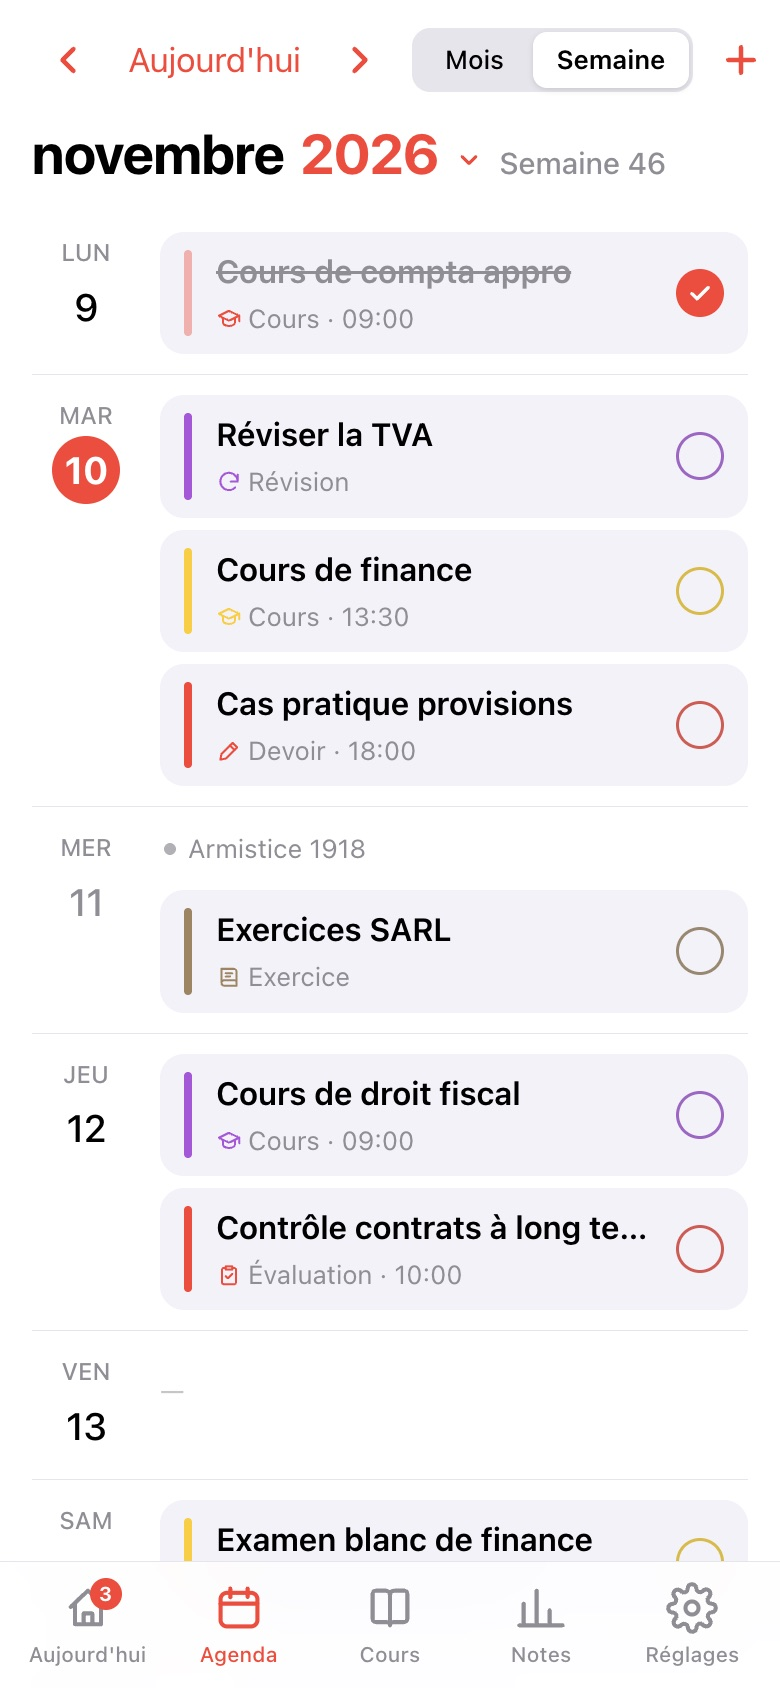
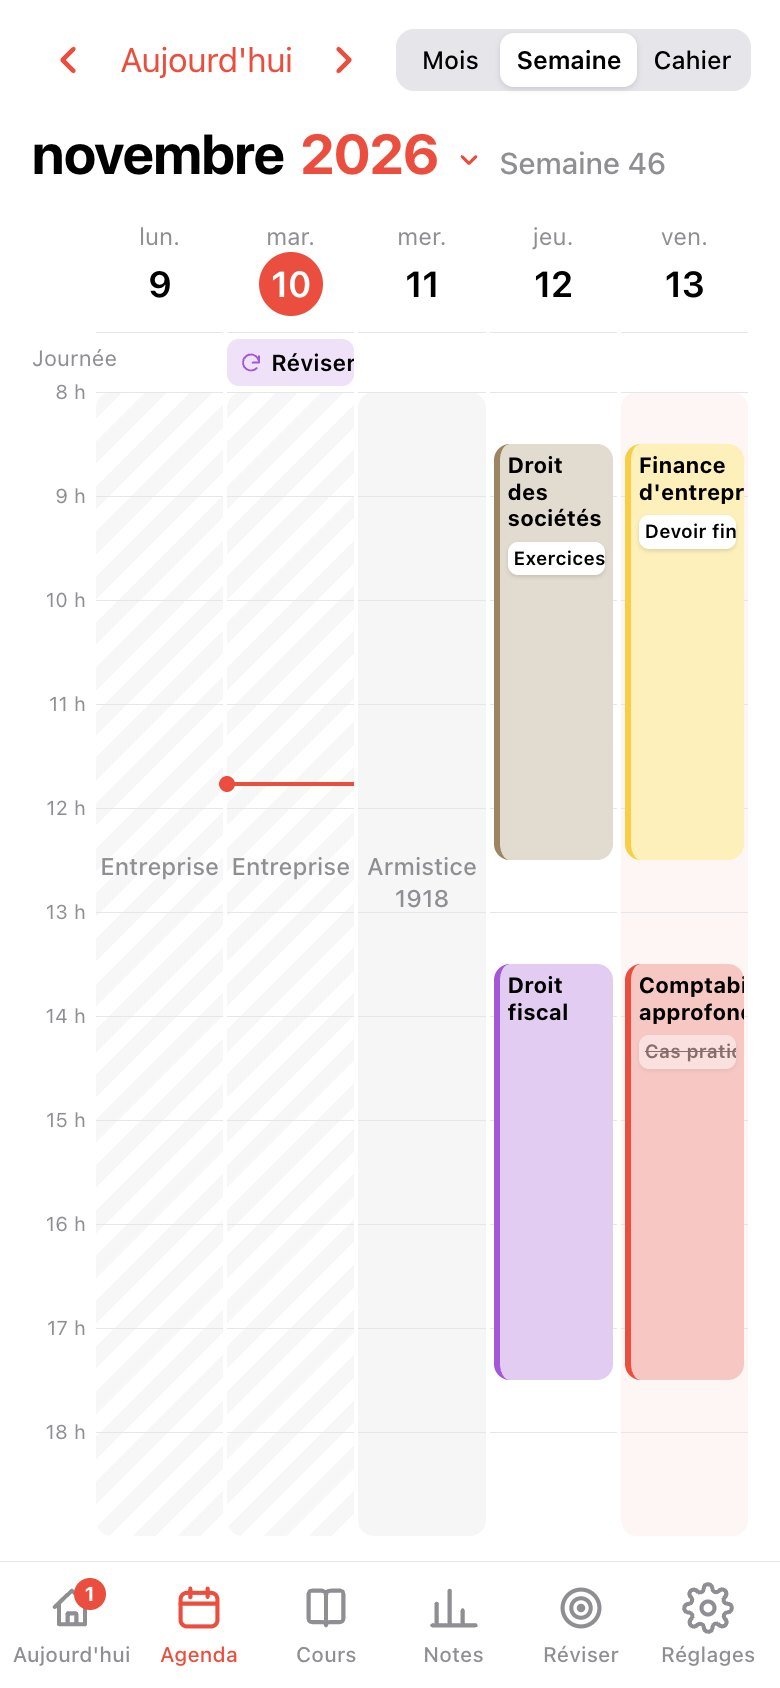
Page de présentation : emploi du temps, devoirs, sujets en photo, Réviser

diff --git a/public/presentation.html b/public/presentation.html
@@ -232,7 +232,7 @@ footer a:hover { color: var(--text); }
     <div class="stage reveal d2">
       <div class="window laptop">
         <div class="bar"><i></i><i></i><i></i></div>
-        <img src="/presentation/desktop-week-dark.jpg" alt="Agenda DCG sur Mac : la semaine avec cours, devoirs, évaluation et examen blanc" width="2000" height="1250">
+        <img src="/presentation/desktop-week-dark.jpg" alt="Agenda DCG sur Mac : l'emploi du temps de la semaine, avec les devoirs rangés dans leurs cours" width="2000" height="1250">
       </div>
       <div class="phone">
         <div class="screen"><div class="island"></div><img src="/presentation/phone-today.jpg" alt="Agenda DCG sur iPhone : l'écran Aujourd'hui" width="780" height="1688"></div>
@@ -242,7 +242,7 @@ footer a:hover { color: var(--text); }
 
   <div class="wrap">
     <div class="stats reveal">
-      <div class="stat"><b>5</b><span>onglets, rien de plus</span></div>
+      <div class="stat"><b>6</b><span>onglets, rien de plus</span></div>
       <div class="stat"><b>46</b><span>PDF de cours déjà en ligne</span></div>
       <div class="stat"><b>4</b><span>plateformes : iPhone, Mac, Windows, web</span></div>
       <div class="stat"><b>0 €</b><span>pour toujours</span></div>
@@ -275,16 +275,48 @@ footer a:hover { color: var(--text); }
 
       <div class="row flip">
         <div class="media reveal">
-          <div class="phone"><div class="screen adaptive"><div class="island"></div><img class="theme-light-only" src="/presentation/phone-week.jpg" alt="Vue semaine" loading="lazy" width="780" height="1688"><img class="theme-dark-only" src="/presentation/phone-week-dark.jpg" alt="Vue semaine en mode sombre" loading="lazy" width="780" height="1688"></div></div>
+          <div class="phone"><div class="screen adaptive"><div class="island"></div><img class="theme-light-only" src="/presentation/phone-week.jpg" alt="Emploi du temps de la semaine" loading="lazy" width="780" height="1688"><img class="theme-dark-only" src="/presentation/phone-week-dark.jpg" alt="Emploi du temps de la semaine en mode sombre" loading="lazy" width="780" height="1688"></div></div>
         </div>
         <div class="text reveal d1">
-          <div class="eyebrow">Agenda</div>
-          <h3>Du mois à la semaine, d'un geste.</h3>
-          <p>Pince l'écran pour passer de la vue mois à la vue semaine, glisse pour avancer, touche le nom du mois pour sauter directement où tu veux. Comme le Calendrier de ton iPhone.</p>
+          <div class="eyebrow">Emploi du temps</div>
+          <h3>Ta semaine, comme sur l'ENT.</h3>
+          <p>Les cours du jeudi et du vendredi sont déjà placés heure par heure, les jours en entreprise sont hachurés. Tu vois d'un coup d'œil quand tu as cours, et ce qu'il y a à rendre.</p>
           <ul class="bullets">
-            <li><svg viewBox="0 0 24 24" fill="none" stroke="currentColor" stroke-width="2.2" stroke-linecap="round" stroke-linejoin="round"><circle cx="12" cy="12" r="9"/><path d="M8 12.5l2.8 2.8L16 9.8"/></svg>Évaluation, examen blanc, devoir, exercice, cours, révision</li>
-            <li><svg viewBox="0 0 24 24" fill="none" stroke="currentColor" stroke-width="2.2" stroke-linecap="round" stroke-linejoin="round"><circle cx="12" cy="12" r="9"/><path d="M8 12.5l2.8 2.8L16 9.8"/></svg>Jours fériés indiqués automatiquement</li>
-            <li><svg viewBox="0 0 24 24" fill="none" stroke="currentColor" stroke-width="2.2" stroke-linecap="round" stroke-linejoin="round"><circle cx="12" cy="12" r="9"/><path d="M8 12.5l2.8 2.8L16 9.8"/></svg>Sur Mac, glisse à deux doigts sur le trackpad</li>
+            <li><svg viewBox="0 0 24 24" fill="none" stroke="currentColor" stroke-width="2.2" stroke-linecap="round" stroke-linejoin="round"><circle cx="12" cy="12" r="9"/><path d="M8 12.5l2.8 2.8L16 9.8"/></svg>Vue semaine en grille horaire, vue mois et cahier de texte</li>
+            <li><svg viewBox="0 0 24 24" fill="none" stroke="currentColor" stroke-width="2.2" stroke-linecap="round" stroke-linejoin="round"><circle cx="12" cy="12" r="9"/><path d="M8 12.5l2.8 2.8L16 9.8"/></svg>Jours fériés et jours en entreprise indiqués automatiquement</li>
+            <li><svg viewBox="0 0 24 24" fill="none" stroke="currentColor" stroke-width="2.2" stroke-linecap="round" stroke-linejoin="round"><circle cx="12" cy="12" r="9"/><path d="M8 12.5l2.8 2.8L16 9.8"/></svg>Glisse pour changer de semaine, à deux doigts sur le trackpad du Mac</li>
+          </ul>
+        </div>
+      </div>
+
+      <div class="row">
+        <div class="text reveal">
+          <div class="eyebrow">Devoirs</div>
+          <h3>Un devoir se range tout seul dans son cours.</h3>
+          <p>Choisis « Devoir » et la matière : la date se cale sur le prochain cours, l'heure aussi. Le devoir apparaît directement dans la case du cours, pas dans une case à côté.</p>
+          <ul class="bullets">
+            <li><svg viewBox="0 0 24 24" fill="none" stroke="currentColor" stroke-width="2.2" stroke-linecap="round" stroke-linejoin="round"><circle cx="12" cy="12" r="9"/><path d="M8 12.5l2.8 2.8L16 9.8"/></svg>Coche les chapitres concernés, pris dans la bibliothèque</li>
+            <li><svg viewBox="0 0 24 24" fill="none" stroke="currentColor" stroke-width="2.2" stroke-linecap="round" stroke-linejoin="round"><circle cx="12" cy="12" r="9"/><path d="M8 12.5l2.8 2.8L16 9.8"/></svg>« Prochains cours » : un bouton pour chaque date</li>
+            <li><svg viewBox="0 0 24 24" fill="none" stroke="currentColor" stroke-width="2.2" stroke-linecap="round" stroke-linejoin="round"><circle cx="12" cy="12" r="9"/><path d="M8 12.5l2.8 2.8L16 9.8"/></svg>Ajouté une fois, visible par toute la classe</li>
+          </ul>
+        </div>
+        <div class="media reveal d1">
+          <div class="phone"><div class="screen"><div class="island"></div><img src="/presentation/phone-new.jpg" alt="Nouveau devoir rangé dans le cours de finance" loading="lazy" width="780" height="1688"></div></div>
+        </div>
+      </div>
+
+      <div class="row flip">
+        <div class="media reveal">
+          <div class="phone"><div class="screen"><div class="island"></div><img src="/presentation/phone-homework.jpg" alt="Un devoir avec son sujet joint" loading="lazy" width="780" height="1688"></div></div>
+        </div>
+        <div class="text reveal d1">
+          <div class="eyebrow">Sujets</div>
+          <h3>Le sujet de l'exercice, en photo.</h3>
+          <p>Prends le sujet en photo depuis l'appli : les pages sont réunies en un PDF et rangées avec le devoir. Une fois la date passée, il reste disponible dans Réglages, rubrique Devoirs passés.</p>
+          <ul class="bullets">
+            <li><svg viewBox="0 0 24 24" fill="none" stroke="currentColor" stroke-width="2.2" stroke-linecap="round" stroke-linejoin="round"><circle cx="12" cy="12" r="9"/><path d="M8 12.5l2.8 2.8L16 9.8"/></svg>Photo, PNG, JPG ou PDF</li>
+            <li><svg viewBox="0 0 24 24" fill="none" stroke="currentColor" stroke-width="2.2" stroke-linecap="round" stroke-linejoin="round"><circle cx="12" cy="12" r="9"/><path d="M8 12.5l2.8 2.8L16 9.8"/></svg>Plusieurs pages réunies en un seul PDF</li>
+            <li><svg viewBox="0 0 24 24" fill="none" stroke="currentColor" stroke-width="2.2" stroke-linecap="round" stroke-linejoin="round"><circle cx="12" cy="12" r="9"/><path d="M8 12.5l2.8 2.8L16 9.8"/></svg>Séparé des cours : la bibliothèque reste propre</li>
           </ul>
         </div>
       </div>
@@ -296,7 +328,7 @@ footer a:hover { color: var(--text); }
           <p>Une bibliothèque par matière et par chapitre. Chaque chapitre a sa fiche de cours, son sujet type, le corrigé et le TOP EXO du prof. Une évaluation renvoie directement aux bons chapitres.</p>
           <ul class="bullets">
             <li><svg viewBox="0 0 24 24" fill="none" stroke="currentColor" stroke-width="2.2" stroke-linecap="round" stroke-linejoin="round"><circle cx="12" cy="12" r="9"/><path d="M8 12.5l2.8 2.8L16 9.8"/></svg>PDF compressés automatiquement, texte toujours sélectionnable</li>
-            <li><svg viewBox="0 0 24 24" fill="none" stroke="currentColor" stroke-width="2.2" stroke-linecap="round" stroke-linejoin="round"><circle cx="12" cy="12" r="9"/><path d="M8 12.5l2.8 2.8L16 9.8"/></svg>Une photo du tableau devient un PDF</li>
+            <li><svg viewBox="0 0 24 24" fill="none" stroke="currentColor" stroke-width="2.2" stroke-linecap="round" stroke-linejoin="round"><circle cx="12" cy="12" r="9"/><path d="M8 12.5l2.8 2.8L16 9.8"/></svg>Depuis un cours de l'emploi du temps, ouvre ses fiches</li>
             <li><svg viewBox="0 0 24 24" fill="none" stroke="currentColor" stroke-width="2.2" stroke-linecap="round" stroke-linejoin="round"><circle cx="12" cy="12" r="9"/><path d="M8 12.5l2.8 2.8L16 9.8"/></svg>Un seul étudiant ajoute, toute la classe en profite</li>
           </ul>
         </div>
@@ -323,12 +355,28 @@ footer a:hover { color: var(--text); }
 
       <div class="row">
         <div class="text reveal">
-          <div class="eyebrow">Rappels</div>
-          <h3>Plus jamais « c'était pour aujourd'hui ? »</h3>
-          <p>Tu choisis tes notifications : à chaque nouvelle évaluation, chaque matin, chaque dimanche pour ta semaine, et des rappels 1 jour, 2 jours ou 1 semaine avant.</p>
+          <div class="eyebrow">Réviser</div>
+          <h3>Révise avec Objectif DCG.</h3>
+          <p>L'onglet Réviser t'emmène sur Objectif DCG, l'appli de révision d'un camarade de la classe : plus de 3 500 flash cards et des quiz en droit fiscal, droit des sociétés et finance. Tes prochains contrôles s'affichent juste en dessous.</p>
+          <ul class="bullets">
+            <li><svg viewBox="0 0 24 24" fill="none" stroke="currentColor" stroke-width="2.2" stroke-linecap="round" stroke-linejoin="round"><circle cx="12" cy="12" r="9"/><path d="M8 12.5l2.8 2.8L16 9.8"/></svg>Pile du jour, révision express et points faibles</li>
+            <li><svg viewBox="0 0 24 24" fill="none" stroke="currentColor" stroke-width="2.2" stroke-linecap="round" stroke-linejoin="round"><circle cx="12" cy="12" r="9"/><path d="M8 12.5l2.8 2.8L16 9.8"/></svg>Sur Mac, dans une fenêtre intégrée à l'appli</li>
+            <li><svg viewBox="0 0 24 24" fill="none" stroke="currentColor" stroke-width="2.2" stroke-linecap="round" stroke-linejoin="round"><circle cx="12" cy="12" r="9"/><path d="M8 12.5l2.8 2.8L16 9.8"/></svg>Ta progression reste sur ton compte Objectif DCG</li>
+          </ul>
         </div>
         <div class="media reveal d1">
+          <div class="phone"><div class="screen"><div class="island"></div><img src="/presentation/phone-reviser.jpg" alt="Onglet Réviser avec Objectif DCG" loading="lazy" width="780" height="1688"></div></div>
+        </div>
+      </div>
+
+      <div class="row flip">
+        <div class="media reveal">
           <div class="phone"><div class="screen"><div class="island"></div><img src="/presentation/phone-settings.jpg" alt="Réglages des notifications" loading="lazy" width="780" height="1688"></div></div>
+        </div>
+        <div class="text reveal d1">
+          <div class="eyebrow">Rappels</div>
+          <h3>Plus jamais « c'était pour aujourd'hui ? »</h3>
+          <p>Tu choisis tes notifications : à chaque nouvelle évaluation, chaque matin, chaque dimanche pour ta semaine, et des rappels 1 jour, 2 jours ou 1 semaine avant. Sur iPhone, Mac et Windows.</p>
         </div>
       </div>
 
@@ -338,7 +386,7 @@ footer a:hover { color: var(--text); }
         <div class="tile reveal d2"><div class="ico"><svg viewBox="0 0 24 24" fill="none" stroke="currentColor" stroke-width="2" stroke-linecap="round" stroke-linejoin="round"><path d="M12 3a9 9 0 100 18 6 6 0 010-12 3 3 0 000-6z"/></svg></div><h3>Clair et sombre</h3><p>L'interface suit le thème de ton appareil, avec les animations fluides d'iOS et de macOS.</p></div>
         <div class="tile reveal"><div class="ico"><svg viewBox="0 0 24 24" fill="none" stroke="currentColor" stroke-width="2" stroke-linecap="round" stroke-linejoin="round"><path d="M4 7h16M4 12h10M4 17h7"/><path d="M17 14l3 3-3 3"/></svg></div><h3>PDF jusqu'à 100 Mo</h3><p>Les scans lourds sont allégés avant l'envoi : un PDF de 20 Mo passe souvent sous les 3 Mo.</p></div>
         <div class="tile reveal d1"><div class="ico"><svg viewBox="0 0 24 24" fill="none" stroke="currentColor" stroke-width="2" stroke-linecap="round" stroke-linejoin="round"><path d="M12 3l7 3v5c0 4.5-3 8.2-7 10-4-1.8-7-5.5-7-10V6z"/><path d="M9 12l2 2 4-4"/></svg></div><h3>Gratuit, vraiment</h3><p>L'appli bloque d'elle-même avant de dépasser les forfaits gratuits. Aucune facture possible.</p></div>
-        <div class="tile reveal d2"><div class="ico"><svg viewBox="0 0 24 24" fill="none" stroke="currentColor" stroke-width="2" stroke-linecap="round" stroke-linejoin="round"><circle cx="12" cy="12" r="9"/><path d="M12 7v5l3 2"/></svg></div><h3>Historique</h3><p>Chaque ajout ou modification affiche le prénom de son auteur.</p></div>
+        <div class="tile reveal d2"><div class="ico"><svg viewBox="0 0 24 24" fill="none" stroke="currentColor" stroke-width="2" stroke-linecap="round" stroke-linejoin="round"><circle cx="12" cy="12" r="9"/><path d="M12 7v5l3 2"/></svg></div><h3>Toujours à jour</h3><p>Les apps Mac et Windows se mettent à jour toutes seules, l'appli iPhone aussi. Chaque ajout affiche le prénom de son auteur.</p></div>
       </div>
     </div>
   </section>
@@ -347,12 +395,12 @@ footer a:hover { color: var(--text); }
     <div class="wrap">
       <div class="section-head">
         <div class="eyebrow reveal">Sur ordinateur</div>
-        <h2 class="reveal d1">Tout ton mois, en grand.</h2>
+        <h2 class="reveal d1">Toute ta semaine, en grand.</h2>
         <p class="lead reveal d2">Une vraie app pour Mac et Windows, qui reste toujours à jour avec le site.</p>
       </div>
       <div class="window reveal d2">
         <div class="bar"><i></i><i></i><i></i></div>
-        <img src="/presentation/desktop-month-light.jpg" alt="Agenda DCG sur ordinateur : vue du mois" loading="lazy" width="2000" height="1250">
+        <img src="/presentation/desktop-week-light.jpg" alt="Agenda DCG sur ordinateur : l'emploi du temps de la semaine" loading="lazy" width="2000" height="1250">
       </div>
     </div>
   </section>
@@ -434,7 +482,9 @@ Dis-moi quand c'est fait.</pre>
         <details><summary>Qui peut voir mes notes ?</summary><p>Personne d'autre que toi. Tes notes, ce que tu as coché et tes réglages de rappels sont liés à ton compte, protégé par ton code perso à 6 chiffres. L'agenda et les cours, eux, sont partagés avec la classe.</p></details>
         <details><summary>Où trouver le mot de passe de la classe ?</summary><p>Demande-le au délégué ou à un camarade. Il n'est écrit nulle part en ligne, pour que l'agenda reste réservé à la classe.</p></details>
         <details><summary>macOS dit que l'app « ne peut pas être ouverte ». C'est grave ?</summary><p>Non : l'app n'est pas signée avec un certificat Apple payant. Va dans Réglages Système → Confidentialité et sécurité, puis clique sur « Ouvrir quand même ». Si tu passes par ton agent IA, il s'en occupe.</p></details>
-        <details><summary>Je reçois les rappels sur quels appareils ?</summary><p>Sur iPhone (après l'avoir ajouté à l'écran d'accueil), sur Android et dans Safari, Chrome ou Edge sur ordinateur. Les apps Mac et Windows ne reçoivent pas de notifications : active-les sur ton téléphone.</p></details>
+        <details><summary>Je reçois les rappels sur quels appareils ?</summary><p>Sur iPhone (après l'avoir ajouté à l'écran d'accueil), sur Android, dans Safari, Chrome ou Edge, et dans les apps Mac et Windows, qui programment les rappels même quand elles sont fermées.</p></details>
+        <details><summary>Si j'ajoute un devoir, les autres le voient ?</summary><p>Oui, tout de suite : sur le site, l'iPhone, le Mac et Windows. L'agenda, les cours et les sujets joints sont communs à toute la classe. Seuls tes notes et ce que tu as coché restent privés.</p></details>
+        <details><summary>Les mises à jour, je dois les faire moi-même ?</summary><p>Non. Les apps Mac et Windows téléchargent les nouvelles versions toutes seules et les installent au redémarrage. Sur iPhone, l'appli se recharge d'elle-même quand une nouvelle version est en ligne.</p></details>
         <details><summary>Ça marche sans internet ?</summary><p>Non, l'agenda a besoin d'internet pour rester synchronisé avec toute la classe.</p></details>
       </div>
     </div>
